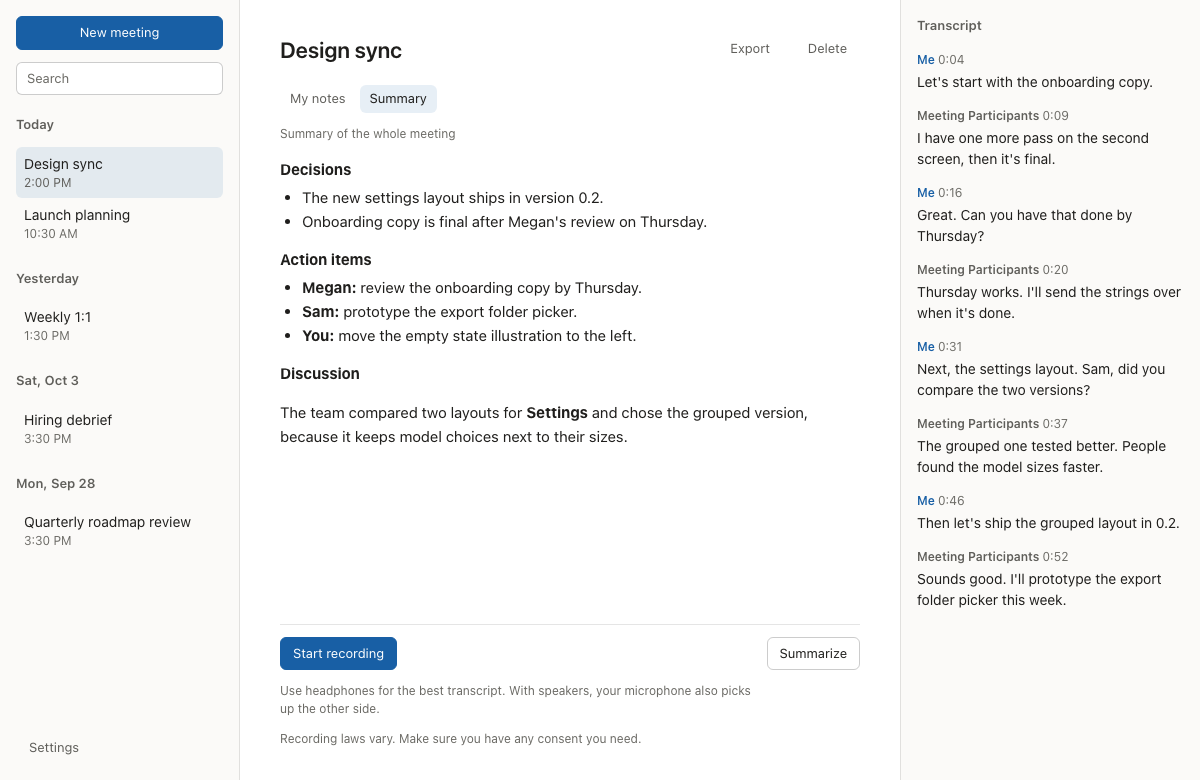
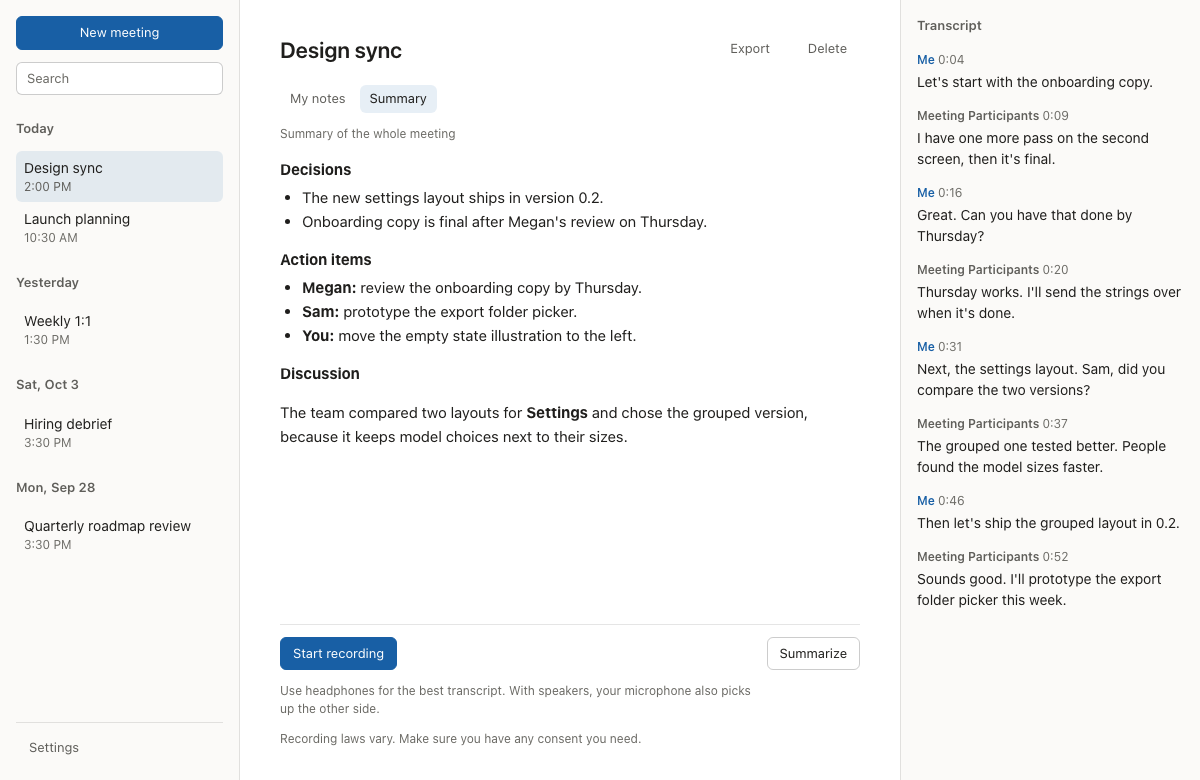
#86: Keep New meeting, search, and Settings in place while the list scrolls
The sidebar no longer scrolls as a whole. New meeting and search stay at
the top, the meeting list and Load more scroll between them and the
footer, and the export bar and Settings stay at the bottom, above a
divider.

diff --git a/src/features/meetings/MeetingList.tsx b/src/features/meetings/MeetingList.tsx
@@ -14,6 +14,9 @@ interface MeetingListProps {
   onSelect: (id: number, mode: SelectMode) => void;
   onCreate: () => void;
   creating: boolean;
+  /** Shown after the last meeting, scrolling with the list, such as Load more. */
+  listEnd?: ReactNode;
+  /** Kept at the bottom of the sidebar while the list scrolls. */
   footer?: ReactNode;
   /** Shown under the New meeting button, such as a search field. */
   search?: ReactNode;
@@ -31,6 +34,7 @@ export function MeetingList({
   onSelect,
   onCreate,
   creating,
+  listEnd,
   footer,
   search,
   emptyHint = "Your meetings appear here.",
@@ -41,11 +45,15 @@ export function MeetingList({
 
   return (
     <nav className="sidebar" aria-label="Meetings">
-      <button type="button" className="button primary full-width" onClick={onCreate} disabled={creating}>
-        {creating ? "Creating…" : "New meeting"}
-      </button>
-      {search}
+      <div className="sidebar-top">
+        <button type="button" className="button primary full-width" onClick={onCreate} disabled={creating}>
+          {creating ? "Creating…" : "New meeting"}
+        </button>
+        {search}
+      </div>
 
+      {/* Only the list scrolls; New meeting, search, and the footer stay in place. */}
+      <div className="sidebar-list">
       {groups.length === 0 ? (
         <p className="empty-hint sidebar-hint">{emptyHint}</p>
       ) : (
@@ -83,7 +91,9 @@ export function MeetingList({
           </section>
         ))
       )}
-      {footer}
+      {listEnd}
+      </div>
+      {footer && <div className="sidebar-bottom">{footer}</div>}
     </nav>
   );
 }

diff --git a/screenshots/scenes.spec.ts b/screenshots/scenes.spec.ts
@@ -75,3 +75,24 @@ test("settings scroll inside their pane, not the window", async ({ page }) => {
   }));
   expect(size.height).toBeLessThanOrEqual(size.window);
 });
+
+test("the meeting list scrolls while New meeting, search, and Settings stay put", async ({ page }) => {
+  await page.setViewportSize({ width: 1200, height: 420 });
+  await open(page, "meeting");
+  const newMeeting = page.getByRole("button", { name: "New meeting" });
+  const settings = sidebar(page).getByRole("button", { name: "Settings" });
+  const list = page.locator(".sidebar-list");
+  await expect(newMeeting).toBeVisible();
+  const before = { top: await newMeeting.boundingBox(), bottom: await settings.boundingBox() };
+
+  const scrolled = await list.evaluate((pane) => {
+    pane.scrollTo(0, pane.scrollHeight);
+    return pane.scrollTop;
+  });
+
+  expect(scrolled, "the list should overflow at this height").toBeGreaterThan(0);
+  expect(await newMeeting.boundingBox()).toEqual(before.top);
+  expect(await settings.boundingBox()).toEqual(before.bottom);
+  await expect(page.getByRole("searchbox")).toBeInViewport();
+  await expect(settings).toBeInViewport();
+});

diff --git a/src/App.tsx b/src/App.tsx
@@ -130,16 +130,18 @@ export default function App() {
           />
         }
         emptyHint={query === "" ? undefined : `No meetings match “${query}”.`}
+        listEnd={
+          list.kind === "ready" && (
+            <LoadMore
+              hasMore={list.next !== null}
+              loading={list.loadingMore}
+              error={list.moreError}
+              onLoadMore={loadMore}
+            />
+          )
+        }
         footer={
           <>
-            {list.kind === "ready" && (
-              <LoadMore
-                hasMore={list.next !== null}
-                loading={list.loadingMore}
-                error={list.moreError}
-                onLoadMore={loadMore}
-              />
-            )}
             <ExportSelectionBar
               selectedIds={selection.ids}
               onClearSelection={() => setSelection({ ids: selectedId === null ? [] : [selectedId], anchor: selectedId })}

diff --git a/src/styles.css b/src/styles.css
@@ -76,6 +76,36 @@ body {
   overflow-y: auto;
 }
 
+/* The sidebar itself doesn't scroll: only its meeting list does, between
+   New meeting and search above and the footer below. */
+.sidebar {
+  overflow: hidden;
+  padding-bottom: 0;
+}
+
+.sidebar-top {
+  flex: none;
+  padding-bottom: 4px;
+}
+
+.sidebar-list {
+  position: relative;
+  flex: 1;
+  min-height: 0;
+  overflow-y: auto;
+  /* Reach the sidebar's edges, so focus rings and the scrollbar aren't clipped. */
+  margin: 0 -16px;
+  padding: 0 16px 16px;
+}
+
+.sidebar-bottom {
+  flex: none;
+  display: flex;
+  flex-direction: column;
+  padding: 8px 0 16px;
+  border-top: 1px solid var(--border);
+}
+
 .sidebar {
   border-right: 1px solid var(--border);
 }
@@ -719,6 +749,11 @@ body {
 
 .export-bar + .settings-button {
   margin-top: 8px;
+}
+
+.sidebar-bottom .export-bar {
+  margin-top: 0;
+  padding-top: 0;
 }
 
 .settings-button[aria-current="page"] {
